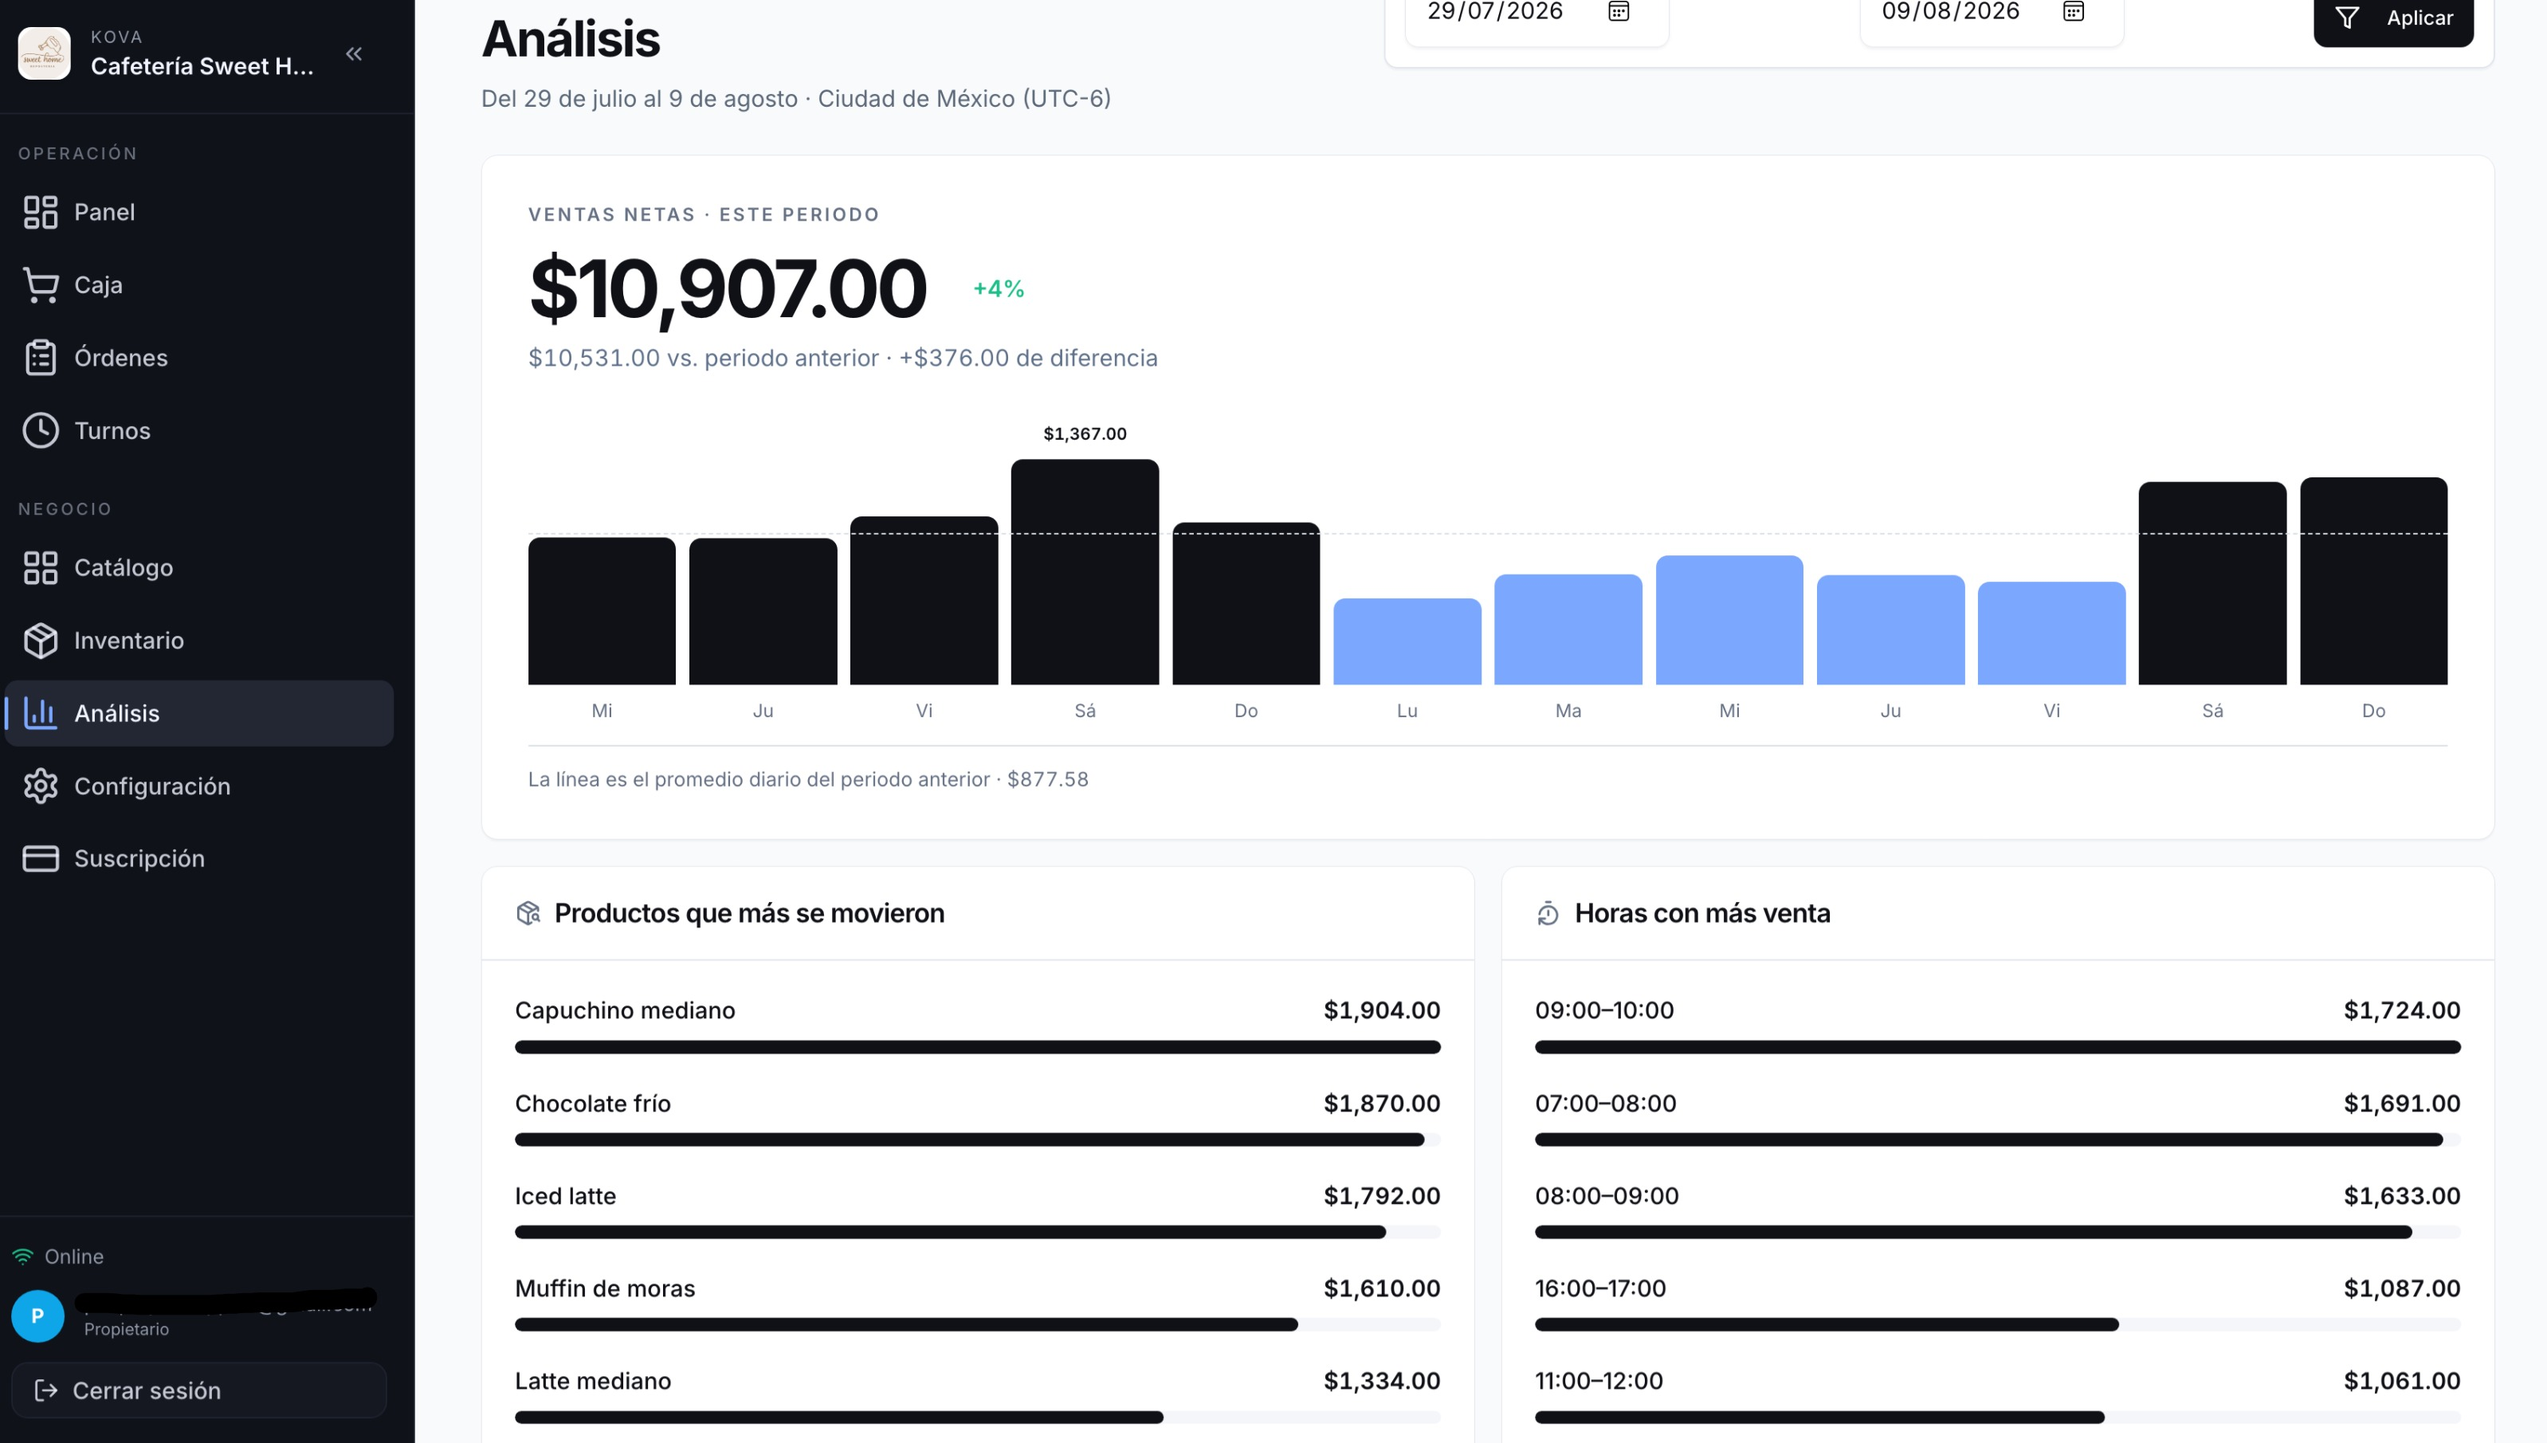
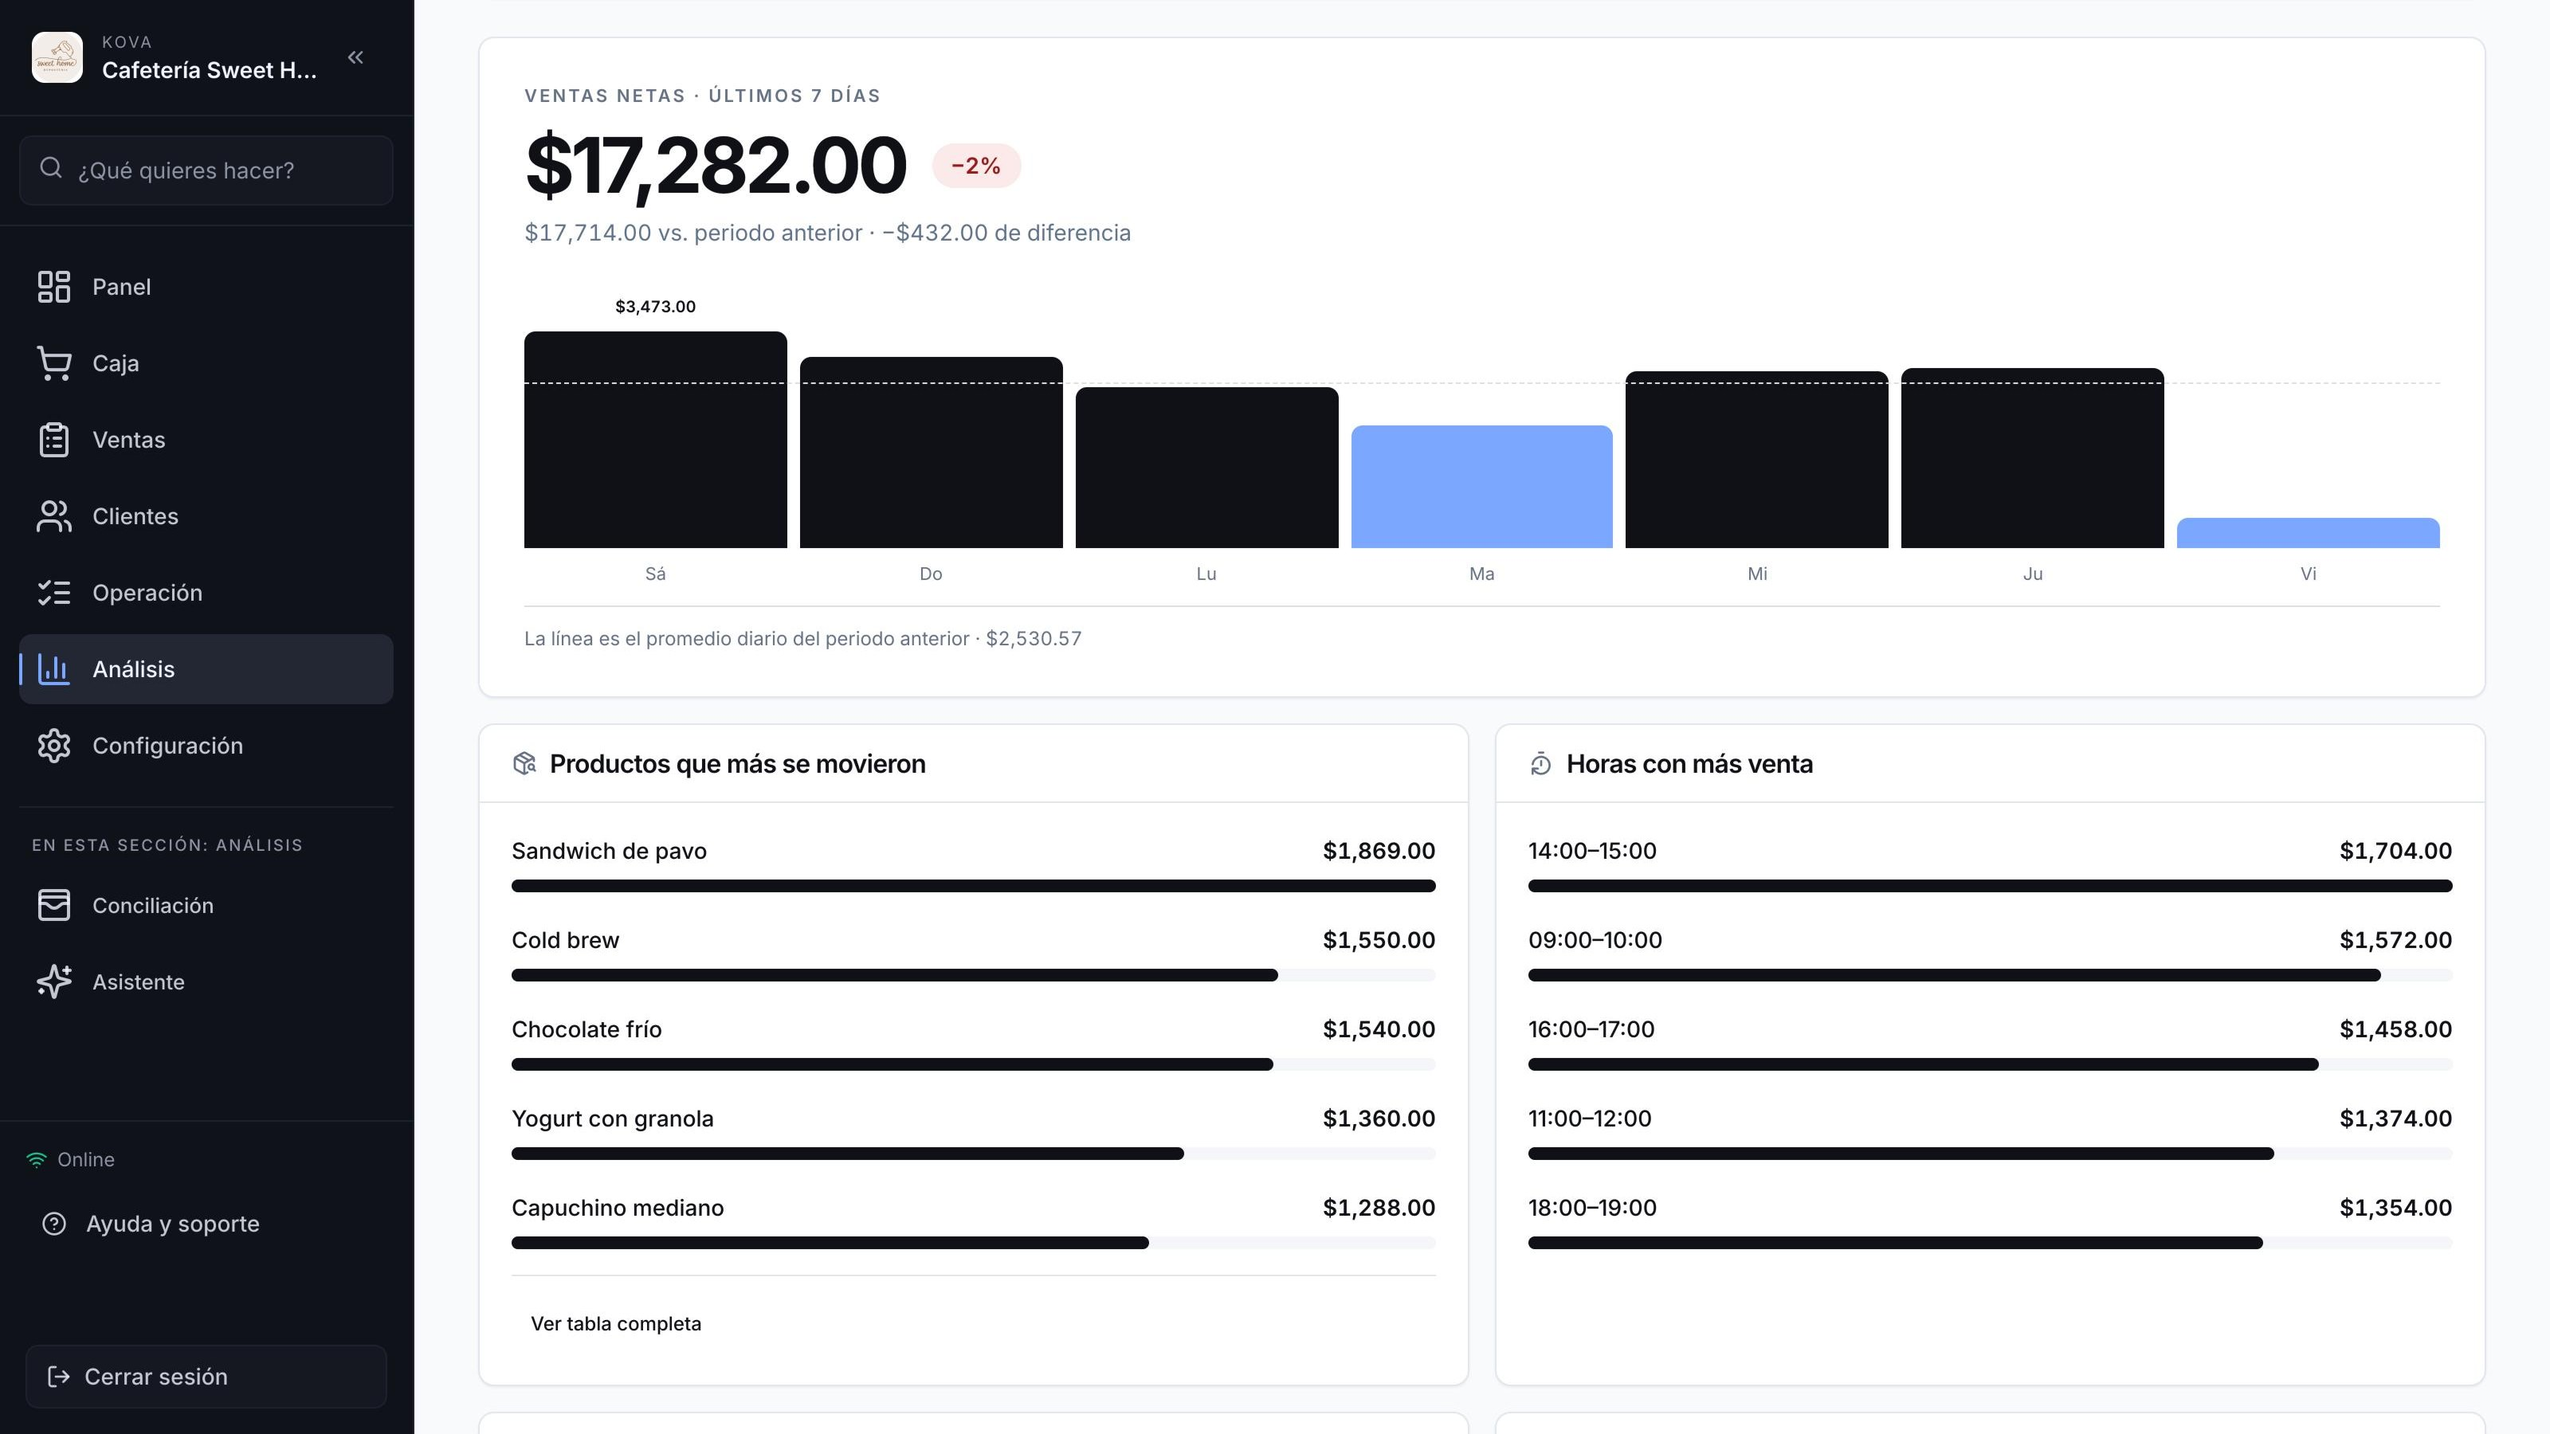
feat(showcase): capturas reales del diseño actual en escritorio y móvil (#272)
* fix(capture): ocultar recorridos de primer uso y descartar telemetría

Los recorridos de Caja/Catálogo tapaban la vista y su telemetría hacía
fallar la corrida de sólo lectura. Se marcan como vistos en localStorage
del navegador de captura y la telemetría se descarta sin contarse como
escritura; cualquier otra escritura sigue abortando.

* feat(showcase): capturas reales del diseño actual en escritorio y móvil

Reemplaza las capturas de la landing (Caja, Inventario, Turnos, Análisis
y las tres historias) por vistas actuales del tenant de prueba, tomadas
en producción sólo lectura y sin correos visibles. Agrega capturas de
teléfono en showcase/mobile/ y actualiza las fotos de producto.

El script de captura ahora oculta el correo con una hoja de estilo,
revisa sólo texto realmente visible, tolera productos sin foto y calcula
el total del carrito con precios reales.

---------

diff --git a/frontend/public/showcase/README.md b/frontend/public/showcase/README.md
@@ -11,11 +11,14 @@ Para regenerar las imágenes, desde `frontend/` define `KOVA_CAPTURE_EMAIL` y `K
 El script:
 
 - conserva el AppShell completo y oculta el área de cuenta;
-- prepara localmente, sin cobrar, Cold brew + Capuchino mediano + Yogurt con granola = $186;
-- bloquea cualquier request de escritura después del inicio de sesión;
+- prepara localmente, sin cobrar, Cold brew + Capuchino mediano + Yogurt con granola y espera el total calculado con los precios reales;
+- bloquea cualquier request de escritura después del inicio de sesión (la telemetría se descarta para no contar la captura como uso);
+- marca como vistos los recorridos de primer uso, que sólo viven en `localStorage`, para que no tapen Caja;
 - espera encabezados, fuentes e imágenes antes de capturar;
 - rechaza correos visibles y valida el tamaño exacto de cada vista;
 - captura escritorio (1440×900) en `showcase/` y teléfono emulado (390×844, DPR 3, táctil) en `showcase/mobile/`; `KOVA_CAPTURE_DEVICES=desktop` o `mobile` limita la corrida;
 - extrae a `products/` las fotografías usadas por la demo local.
 
 Antes de publicar, revisar visualmente las cuatro capturas. No deben contener correos, nombres de personas, identificadores privados ni datos de clientes. Nunca pulsar `Cobrar`, `Cerrar turno`, `Ajustar`, `Aplicar` ni ninguna acción de escritura durante la captura.
+
+Las capturas de 2026-10-23 se tomaron en producción, sólo lectura, desde el navegador integrado: escritorio a 1440×900 (`*.png`), historias de la landing a 3200×1800 (`*-story.jpeg`, `sale-register.jpeg`) y teléfono a 1125×2436 en `mobile/`. La carpeta `mobile/` aún no está conectada a la landing.
